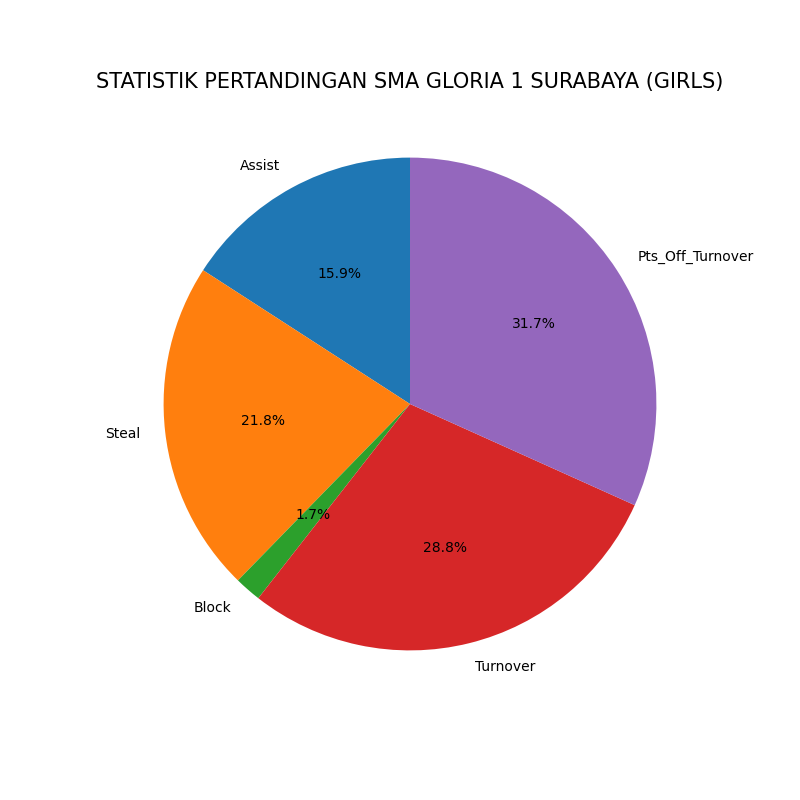
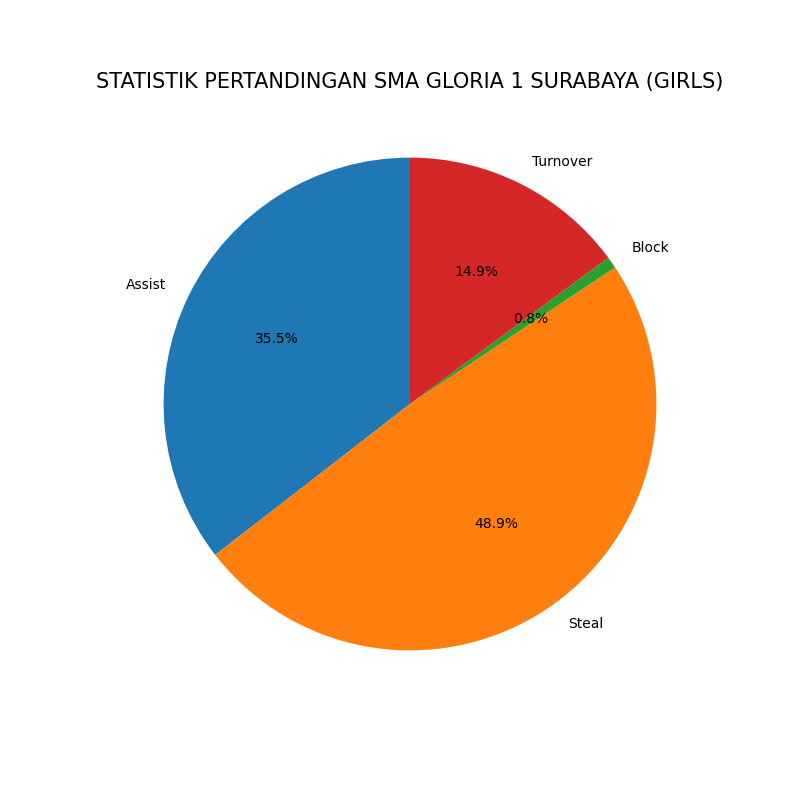
add visual

diff --git a/Data Visualization/src/visual.py b/Data Visualization/src/visual.py
@@ -9,26 +9,45 @@ with open(path) as json_file:
     data = json.load(json_file)
 
 df_match = pd.DataFrame(data['match_info'])
-to_int = ["assist_A", "steal_A", "block_A", "turnover_A", "pts_off_turnover_A", "assist_B", "steal_B", "block_B", "turnover_B", "pts_off_turnover_B"]
+to_int = ["assist_A", "steal_A", "block_A", "turnover_A", "pts_off_turnover_A"]
 df_match[to_int] = df_match[to_int].astype(int)
 
 school = "SMA GLORIA 1 SURABAYA"
 df_team_A = df_match.loc[(df_match["team_A"] == school) & (df_match["type"] == "Girls")]
+to_int = ["2pts_A", "3pts_A", "free_throw_A"]
+
+def split(value):
+    made, attempt = value.split("/")
+    return int(made)
+
+for column in to_int:
+    df_team_A[f"{column}_made"] = df_team_A[column].apply(split)
+
+total_match = len(df_team_A)
+idx = range(total_match)
+width = 0.35
+
+# stacked bar
+plt.figure(figsize=(10,6))
+plt.bar(idx, df_team_A["pts_off_turnover_A"], width, label="points off to", color="orange")
+for column in to_int:
+    plt.bar(idx, df_team_A[f"{column}_made"], width, bottom=df_team_A["pts_off_turnover_A"], label=f"{column} made") 
+
+plt.xlabel("Match")
+plt.ylabel("Total")
+plt.title("TOTAL SKOR SMA GLORIA 1 SURABAYA (GIRLS) DBL SEASON 2022")
+plt.legend()
+plt.xticks(idx, [f"Match {i+1}" for i in range(total_match)])
+save_path = os.path.join(path_visualisasi, 'Visualisasi_Skor_Gloria1.png')
+plt.savefig(save_path)
+
 total_asssist = df_team_A["assist_A"].sum()
 total_steal = df_team_A["steal_A"].sum()
 total_block = df_team_A["block_A"].sum()
 total_turnover = df_team_A["turnover_A"].sum()
-total_pts_off_turnover = df_team_A["pts_off_turnover_A"].sum()
 
-df_team_B = df_match.loc[(df_match["team_B"] == school) & (df_match["type"] == "Girls")]
-total_asssist += df_team_A["assist_B"].sum()
-total_steal += df_team_A["steal_B"].sum()
-total_block += df_team_A["block_B"].sum()
-total_turnover += df_team_A["turnover_B"].sum()
-total_pts_off_turnover += df_team_A["pts_off_turnover_B"].sum()
-
-sum = [total_asssist, total_steal, total_block, total_turnover, total_pts_off_turnover]
-label = ["Assist", "Steal", "Block", "Turnover", "Pts_Off_Turnover"]
+sum = [total_asssist, total_steal, total_block, total_turnover]
+label = ["Assist", "Steal", "Block", "Turnover"]
 
 # pie chart
 plt.figure(figsize=(8,8))
